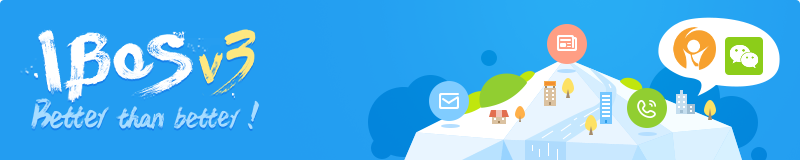
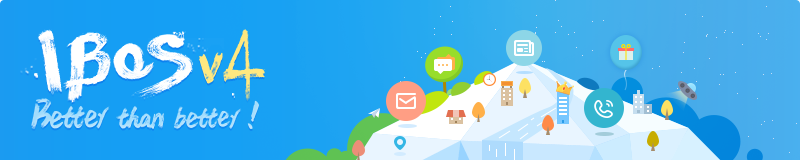
安装的完善

diff --git a/install/static/css/sys_expire.css b/install/static/css/sys_expire.css
@@ -1,0 +1,46 @@
+.o-sys-expire,
+.o-sys-contact,
+.o-sys-upgrade {
+    display: inline-block;
+    position: relative;
+    vertical-align: middle;
+}
+.o-sys-expire {
+    width: 248px;
+    height: 223px;
+    background-image: url('../images/sys_expire.png');
+    margin-bottom: 35px;
+}
+.o-sys-contact {
+	width: 160px;
+	height: 50px;
+	background-image: url('../images/sys_contact.png');
+}
+.o-sys-upgrade {
+    width: 350px;
+    height: 218px;
+    background-image: url('../images/sys_upgrade.png');
+    margin-bottom: 35px;
+}
+.fclg {
+    color: #c8cbcc;
+}
+.fcdg {
+    color: #999;
+}
+.main-content {
+	display: block;
+	margin-top: 100px;
+}
+.remind-box {
+	display: inline-block;
+    position: relative;
+    width: 450px;
+    padding: 10px 0;
+    border-top: 1px solid #e2e6e8;
+    border-bottom: 1px solid #e2e6e8;
+    line-height: 25px;
+}
+#topqq {
+    cursor: pointer;
+}

diff --git a/install/static/css/installation_guide.css b/install/static/css/installation_guide.css
@@ -293,9 +293,10 @@ body{
 }
 .version-info{
 	position:absolute;
-	top:45px;
+	top:35px;
 	left:270px;
 	color:#FFF;
+	font-size: 12px;
 	padding: 5px;
 	background-color: #0064a5;
 }

diff --git a/install/api.php b/install/api.php
@@ -32,8 +32,8 @@ if (get('p') == 'phpinfo') {
 
 $option = get('op', '');
 if (!in_array($option, array('envCheck', 'configCheck', 'dbCheck', 'moduleCheck',
-    'handleInstall', 'handleInstallAll', 'handleAfterInstallAll', 'handleUpdateCoinfo',
-    'handleCheckSaas', 'handleUpdateData'))
+        'handleInstall', 'handleInstallAll', 'handleAfterInstallAll', 'handleUpdateCoinfo',
+        'handleCheckSaas', 'handleUpdateData'))
 ) {
     $option = '';
 }
@@ -363,7 +363,7 @@ function dbCheckOp()
     $configDefault = file_get_contents($defaultConfigfile);
     $authkey = substr(md5( $host . $dbName . $dbAccount . $dbPassword . $dbPre . time()), 8, 6) . StringUtil::random(10);
     $cookiepre = StringUtil::random(4);
-    $configReplace = array( //主配置文件要替换的参数
+    $configReplace = array(//主配置文件要替换的参数
         '{installed}' => 1,
         '{host}' => trim($host),
         '{port}' => trim($port),
@@ -380,7 +380,7 @@ function dbCheckOp()
     file_put_contents(CONFIG_PATH . 'config.php', $config);
     // 创建管理员账号信息文件,安装完成后删除此文件
     $salt = StringUtil::random(6);
-    $adminReplace = array( // 管理员账号替换信息
+    $adminReplace = array(// 管理员账号替换信息
         '{username}' => $adminName,
         '{isadministrator}' => 1,
         '{password}' => md5(md5($adminPassword) . $salt),
@@ -409,7 +409,7 @@ function moduleCheckOp()
     global $sysModules;
     $allModules = Module::getModuleDirs();
     $coreModulesParams = Module::initModuleParameters($sysModules);
-    $customModules = array_diff($allModules, $sysModules);
+    $customModules = array_diff($allModules, array_merge($sysModules, array('app')));
     $customModulesParams = Module::initModuleParameters($customModules);
     $ajaxReturn = array(
         'isSuccess' => true,
@@ -461,14 +461,14 @@ function handleInstallOp()
                             'process' => $process,
                             'nextModule' => $nextModule,
                             'nextModuleName' => $nextModuleName
-                        )));
+                    )));
                 } else {
                     return ajaxReturn(array('isSuccess' => true,
                         'msg' => '',
                         'data' => array(
                             'complete' => 1,
                             'process' => '100%',
-                        )));
+                    )));
                 }
             }
         }
@@ -480,6 +480,47 @@ function handleInstallOp()
 }
 
 /**
+ * 获取 SaaS 数据库配置
+ *
+ * @param string $corpCode 企业 Code，4-20 位数字或字母
+ * @return array
+ */
+function getSaasDb($corpCode)
+{
+    global $saasConfig;
+    // 0 是正式数据库的索引地址，1 是测试数据库的索引地址
+    $index = 0;
+    if (strpos($corpCode, 'test') === 0) {
+        $index = 1;
+    }
+    $saasdb = $saasConfig['saasdb'][$index];
+
+    // 根据 corpCode 选择相应的 db（只对正式数据库做处理）
+    if ($index === 0) {
+        $corpFirstChar = !empty($corpCode[0]) ? $corpCode[0] : 0;
+        $newDbName = sprintf('iboscosaas_%s', strtolower($corpFirstChar));
+        createDb($saasdb, $newDbName);
+        $saasdb['dbName'] = $newDbName;
+    }
+
+    return $saasdb;
+}
+
+/**
+ * 创建数据库（如果不存在）
+ *
+ * @param array $dbConfig
+ * @param string $dbName
+ */
+function createDb($dbConfig, $dbName)
+{
+    $conn = new PDO("mysql:host={$dbConfig['dbHost']};port={$dbConfig['dbPort']}", $dbConfig['dbAccount'], $dbConfig['dbPassword']);
+    $conn->setAttribute(PDO::ATTR_ERRMODE, PDO::ERRMODE_EXCEPTION);
+    $sql = "CREATE DATABASE IF NOT EXISTS {$dbName}";
+    $conn->exec($sql);
+}
+
+/**
  * 一次性安装全部（读作：选择了的）模块~~~
  * 接收：
  *        POST    modules 模块英文名逗号字符串
@@ -487,15 +528,11 @@ function handleInstallOp()
  */
 function handleInstallAllOp()
 {
-    global $sysModules, $saasConfig;
+    global $sysModules;
 
     $corpCode = strtolower(post('qycode'));
+    $saasdb = getSaasDb($corpCode);
 
-    $k = 0;
-    if (strpos($corpCode, 'test') === 0) {
-        $k = 1;
-    }
-    $saasdb = $saasConfig['saasdb'][$k];
 
     //不带端口的域名
     $dbHost = post('dbHost', $saasdb['dbHost']);
@@ -519,6 +556,7 @@ function handleInstallAllOp()
     $platformTemp = post('platform');
     $platform = !empty($platformTemp) ? $platformTemp : 'saas';
     $channel = post('channel', '');
+    $sourceId = post('sourceId', '');
 
     //企业代码为表前缀
     $dbPre = $corpCode . '_';
@@ -529,9 +567,9 @@ function handleInstallAllOp()
             $admin = json_decode($corpRow['super'], true);
             $pdo = null;
             return ajaxReturn(array('isSuccess' => false, 'msg' => '已经安装了，无法使用该企业代码安装', 'data' => array(
-                'installed' => 1,
-                'aeskey' => $admin['aeskey']
-            )
+                    'installed' => 1,
+                    'aeskey' => $admin['aeskey']
+                )
             ));
         } else {
             if (!empty($corpRow) && empty($corpRow['installed'])) {
@@ -581,7 +619,7 @@ function handleInstallAllOp()
     );
     // 创建管理员账号信息文件,安装完成后删除此文件
 
-    $admin = array( // 管理员账号替换信息
+    $admin = array(// 管理员账号替换信息
         'username' => $adminName,
         'isadministrator' => 1,
         'password' => $password,
@@ -606,6 +644,19 @@ function handleInstallAllOp()
     $configString = addslashes(json_encode($config));
     $adminString = addslashes(json_encode($admin));
     $installtime = microtime(true);
+    // saas有效时间默认为2周
+    $expireTime = $installtime + 1209600;
+    // 如果是来自阿里云主机的开通的话，时长为一年
+    if ($channel == 'aliyun' && !empty($sourceId)) {
+        $query = $pdo->prepare(" SELECT * FROM `host` WHERE `sourceid` = :sourceid ");
+        $query->bindParam(":sourceid", $sourceId, PDO::PARAM_STR);
+        $query->execute();
+        $hostRow = $query->fetch(PDO::FETCH_ASSOC);
+        // 当前sourceId未开通过才能延长时间
+        if (!empty($hostRow) && $hostRow['step'] !== 'complete') {
+            $expireTime = $installtime + 31536000;
+        }
+    }
     $query = $pdo->exec("INSERT INTO `config` ("
         . "`corpcode`, "
         . "`config`, "
@@ -613,6 +664,7 @@ function handleInstallAllOp()
         . "`installtime`,"
         . "`module`,"
         . "`mobile`,"
+        . "`expiretime`,"
         . "`channel`,"
         . "`platform` ) VALUES ("
         . "'{$corpCode}', "
@@ -621,6 +673,7 @@ function handleInstallAllOp()
         . "'{$installtime}', "
         . "'{$moduleString}', "
         . "'{$adminAccount}', "
+        . "'{$expireTime}', "
         . "'{$channel}', "
         . "'{$platform}' )");
     $pdo = null;
@@ -748,7 +801,7 @@ function handleAfterInstallAllOp()
                     'realname' => $admin['realname'],
                     'mobile' => $admin['mobile'],
                     'email' => '',
-                ));
+            ));
             $newId = Yii::app()->db->createCommand()
                 ->select("last_insert_id()")
                 ->from("{{user}}")
@@ -775,11 +828,11 @@ function handleAfterInstallAllOp()
             $systemurl = 'http://' . $corpCode . '.saas.ibos.cn';
         }
         $unit = StringUtil::utf8Unserialize(
-            Yii::app()->db->createCommand()
-                ->select('svalue')
-                ->from('{{setting}}')
-                ->where("`skey` = 'unit'")
-                ->queryRow()
+                Yii::app()->db->createCommand()
+                    ->select('svalue')
+                    ->from('{{setting}}')
+                    ->where("`skey` = 'unit'")
+                    ->queryRow()
         );
         $unitConfig = array(
             'logourl', 'phone', 'fullname',
@@ -843,7 +896,7 @@ function handleAfterInstallAllOp()
         $pdo = null;
         //发送短信
 
-        $sms = "【酷办公】{$admin['realname']}, 你已成功开通【{$admin['fullname']}】酷办公OA，你的网址为：{$systemurl}，管理员账号密码与酷办公账号密码一致。";
+        $sms = "{$admin['realname']}, 你已成功开通[{$admin['fullname']}]酷办公OA，你的网址为：{$systemurl}，管理员账号密码与酷办公账号密码一致。【酷办公】";
         $message = !empty($smsContent) ? $smsContent : $sms;
         $url = $saasConfig['url'];
         $get = array(
@@ -857,9 +910,9 @@ function handleAfterInstallAllOp()
 
         return ajaxReturn(
             array('isSuccess' => true, 'msg' => '安装成功', 'data' => array(
-                'sms' => $res,
-                'aeskey' => $admin['aeskey']
-            )));
+                    'sms' => $res,
+                    'aeskey' => $admin['aeskey']
+        )));
     } else {
         $pdo = null;
         return ajaxReturn(array('isSuccess' => false, 'msg' => '请确认执行了handleInstallAll请求'));
@@ -903,11 +956,11 @@ function handleUpdateCoinfoOp()
             Yii::app()->db->createCommand()
                 ->update('{{setting}}', array(
                     'svalue' => $string,
-                ), " `skey` = 'coinfo' ");
+                    ), " `skey` = 'coinfo' ");
             Yii::app()->db->createCommand()
                 ->update('{{setting}}', array(
                     'svalue' => 1,
-                ), " `skey` = 'cobinding' ");
+                    ), " `skey` = 'cobinding' ");
         }
         Cache::update();
         return ajaxReturn(array(
@@ -960,11 +1013,11 @@ function handleUpdateDataOp()
     //更新Setting的unit
     $systemurl = substr(Env::getSiteUrl(), 0, -9);
     $unit = StringUtil::utf8Unserialize(
-        Yii::app()->db->createCommand()
-            ->select('svalue')
-            ->from('{{setting}}')
-            ->where("`skey` = 'unit'")
-            ->queryRow()
+            Yii::app()->db->createCommand()
+                ->select('svalue')
+                ->from('{{setting}}')
+                ->where("`skey` = 'unit'")
+                ->queryRow()
     );
     $unitConfig = array(
         'logourl', 'phone', 'fullname',
@@ -1028,6 +1081,7 @@ function handleUpdateDataOp()
     Role::model()->defaultAuth();
     Cache::update();
     file_put_contents(PATH_ROOT . '/data/install.lock', '');
+    @unlink(PATH_ROOT . '/upgrade.php');
     setcookie('install_config', null);
     return ajaxReturn(array('isSuccess' => true, 'msg' => ''));
 }
@@ -1046,7 +1100,7 @@ function InstallCheck()
         'isSuccess' => !$checkInstall,
         'msg' => $checkInstall ? lang('Install locked') . $lockfile : '',
         'data' => array(
-            'version' => VERSION . ' ' . VERSION_DATE
+            'version' => VERSION . ' ' . VERSION_TYPE
         ),));
 }
 

diff --git a/install/index.php b/install/index.php
@@ -224,7 +224,7 @@
                             <div class="mlst">
                                 <div class="dib vam">
                                     <p class="mb"><i class="o-install-tip"></i></p>
-                                    <p class="mbs fsm">全新IBOS V3支持绑定微信企业号，提供多项办</p>
+                                    <p class="mbs fsm">全新IBOS V4支持绑定微信企业号，提供多项办</p>
                                     <p class="fsm">公应用，充分满足企业移动办公需求。</p>
                                 </div>
                                 <div class="dib">

diff --git a/install/include/installVar.php b/install/include/installVar.php
@@ -4,7 +4,7 @@ define('IBOS_STATIC', '../static/'); //static路径
 define('DBCHARSET', 'utf8'); // 数据库编码
 define('MODULE_PATH', PATH_ROOT . '/system/modules/'); // 模块文件夹目录
 define('CONFIG_PATH', PATH_ROOT . '/system/config/'); // 配置文件目录
-define('IBOS_VERSION_FULL', 'IBOS ' . VERSION . ' ' . VERSION_DATE); // 版本号
+define('IBOS_VERSION_FULL', 'IBOS ' . VERSION . ' ' . VERSION_TYPE); // 版本号
 $lockfile = PATH_ROOT . '/data/install.lock';
 // 核心模块,安装顺序有限制
 $coreModules = array('main', 'dashboard', 'message', 'user', 'department', 'position', 'role');
